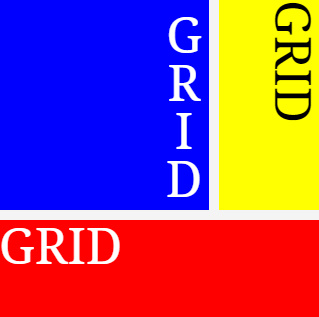
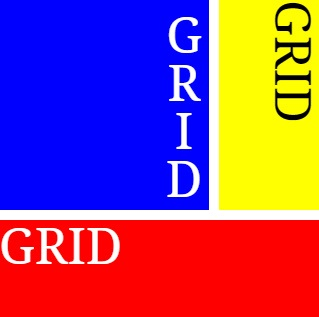
html in layout page

Changed region(s): [[0.0, 0.0, 1.0, 0.8517], [0.8464, 0.0, 0.9875, 0.3975], [0.5078, 0.0284, 0.6207, 0.1703]]

diff --git a/layout.html b/layout.html
@@ -13,18 +13,129 @@
         <h1>Layout Page</h1>
       </header>
       <main class="layout">
-        <div class="blue">
-          <span>GRID</span>
-        </div>
-        <div class="yellow">
-          <span>GRID</span>
-        </div>
-        <div class="red">
-          <span>GRID</span>
-        </div>
+        <section class="layout-header">
+          <nav class="layout-header__nav">
+            <i class="fas fa-bars"></i>
+            <span class="layout-header__nav__logo">LOGO</span>
+            <div class="layout-header__nav__category">
+              <span>category</span>
+              <span>category</span>
+              <span>category</span>
+              <span>category</span>
+              <span>category</span>
+            </div>
+            <i class="fas fa-search"></i>
+          </nav>
+          <div class="layout-header__banner">
+            <i class="fas fa-chevron-left"></i>
+            <span class="layout-header__banner__contents">Banner</span>
+            <i class="fas fa-chevron-right"></i>
+          </div>
+          <div class="layout-header__text">
+            <div class="layout-header__text__title">Title Text</div>
+            <div class="layout-header__text__subtitle">Subtitle Text</div>
+            <div class="layout-header__text__contents">contents</div>
+          </div>
+        </section>
+        <section class="layout__first">
+          <div class="layout__first__title"></div>
+          <div class="layout__first__box">
+            <div class="layout__first__box__title">Title Text</div>
+            <div class="layout__first__box__contents">contents</div>
+          </div>
+          <button type="button" class="layout__first__btn">더보기</button>
+        </section>
+        <section class="layout__second">
+          <div class="layout__second-header">
+            <div class="layout__second-header__title"></div>
+            <div class="layout__second-header__subtitle"></div>
+            <div class="layout__second-header__contents"></div>
+          </div>
+          <div class="layout__second__video"></div>
+          <div class="layout__second__videos"></div>
+          <button type="button" class="layout__second__btn">더보기</button>
+        </section>
+        <section class="layout__third">
+          <div class="layout__third-header"><span>Title Text</span></div>
+          <div class="layout__third__boxes">
+            <div class="layout__third__box">
+              <div class="layout__third__box__title">01</div>
+              <div class="layout__third__box__contents">contents</div>
+            </div>
+            <div class="layout__third__box">
+              <div class="layout__third__box__title">02</div>
+              <div class="layout__third__box__contents">contents</div>
+            </div>
+            <div class="layout__third__box">
+              <div class="layout__third__box__title">03</div>
+              <div class="layout__third__box__contents">contents</div>
+            </div>
+            <div class="layout__third__box">
+              <div class="layout__third__box__title">04</div>
+              <div class="layout__third__box__contents">contents</div>
+            </div>
+            <div class="layout__third__box">
+              <div class="layout__third__box__title">05</div>
+              <div class="layout__third__box__contents">contents</div>
+            </div>
+            <div class="layout__third__box">
+              <div class="layout__third__box__title">06</div>
+              <div class="layout__third__box__contents">contents</div>
+            </div>
+          </div>
+          <button type="button" class="layout__third__btn">더보기</button>
+        </section>
+        <section class="layout__fourth">
+          <div class="layout__fourth-header">
+            <div class="layout__fourth-header__title">Title Text</div>
+            <div class="layout__fourth-header__contents">contents</div>
+          </div>
+          <div class="layout__fourth__boxes">
+            <div class="layout__fourth__box"></div>
+            <div class="layout__fourth__box"></div>
+            <div class="layout__fourth__box"></div>
+          </div>
+        </section>
+        <section class="layout__fifth">
+          <div class="layout__fifth-header">
+            <div class="layout__fifth-header__title">Title text</div>
+            <ul class="layout__fifth-header__nav">
+              <li></li>
+              <li></li>
+              <li></li>
+              <li></li>
+              <li></li>
+              <li></li>
+            </ul>
+          </div>
+          <div class="layout__fifth__subtitle">Subtitle</div>
+          <div class="layout__fifth__contents"></div>
+          <div class="layout__fifth__boxes">
+            <div class="layout__fifth__box">
+              <div class="layout__fifth__box__title">Title</div>
+              <div class="layout__fifth__contents">contents</div>
+            </div>
+            <div class="layout__fifth__box">
+              <div class="layout__fifth__box__title">Title</div>
+              <div class="layout__fifth__contents">contents</div>
+            </div>
+            <div class="layout__fifth__box">
+              <div class="layout__fifth__box__title">Title</div>
+              <div class="layout__fifth__contents">contents</div>
+            </div>
+            <div class="layout__fifth__box">
+              <div class="layout__fifth__box__title">Title</div>
+              <div class="layout__fifth__contents">contents</div>
+            </div>
+          </div>
+        </section>
       </main>
     </div>
     <footer></footer>
+    <script
+      src="https://kit.fontawesome.com/3b3cd648ee.js"
+      crossorigin="anonymous"
+    ></script>
     <script src="js/layout.js"></script>
   </body>
 </html>

diff --git a/css/grid.css b/css/grid.css
@@ -1,7 +1,45 @@
 .wrapper-grid {
   margin-bottom: 50px;
 }
+.thumbnail-grid {
+  width: 100%;
+  height: 100%;
+  margin: 50px 0px;
+  display: grid;
+  justify-content: center;
+  grid-template-columns: repeat(3, 100px);
+  grid-template-rows: repeat(3, 100px);
+  gap: 10px;
+}
+.thumbnail-grid div {
+  display: flex;
+  font-size: 50px;
+}
+.thumbnail-grid--blue {
+  color: white;
+  background-color: blue;
+  justify-content: flex-start;
+  grid-row: span 2;
+  grid-column: span 2;
+  writing-mode: vertical-rl;
+  text-orientation: upright;
+  letter-spacing: -20px;
+}
+.thumbnail-grid--yellow {
+  background-color: yellow;
+  grid-row: span 2;
+  writing-mode: vertical-rl;
+}
+.thumbnail-grid--red {
+  color: white;
+  background-color: red;
+  grid-column: span 3;
+  text-shadow: black;
+}
 .grid__box {
+  padding: 0px 20px 20px 20px;
+  border-radius: 20px;
+  background-color: white;
   display: flex;
   flex-direction: column;
   align-items: center;
@@ -21,13 +59,13 @@
   width: 1400px;
   height: 2048px;
   padding: 0px 20px;
-  background-color: #a4aafc;
+  background-color: #e7879c;
   display: grid;
   grid-template-columns: repeat(12, 1fr);
   gap: 40px;
 }
 .grid__box__column {
-  background-color: #e1abcf;
+  background-color: #eea4b5;
 }
 .grid__box__area {
   width: 1400px;
@@ -65,5 +103,5 @@
 }
 .black {
   background-color: black;
-  opacity: 0.2;
+  opacity: 0.5;
 }

diff --git a/css/layout.css b/css/layout.css
@@ -7,36 +7,5 @@
   align-items: center;
 }
 .layout {
-  width: 100%;
-  height: 100%;
-  display: grid;
-  justify-content: center;
-  grid-template-columns: repeat(3, 100px);
-  grid-template-rows: repeat(3, 100px);
-  gap: 10px;
-}
-.layout div {
-  display: flex;
-  font-size: 50px;
-}
-.blue {
-  color: white;
-  background-color: blue;
-  justify-content: flex-start;
-  grid-row: span 2;
-  grid-column: span 2;
-  writing-mode: vertical-rl;
-  text-orientation: upright;
-  letter-spacing: -20px;
-}
-.yellow {
-  background-color: yellow;
-  grid-row: span 2;
-  writing-mode: vertical-rl;
-}
-.red {
-  color: white;
-  background-color: red;
-  grid-column: span 3;
-  text-shadow: black;
+  width: 1080px;
 }

diff --git a/grid.html b/grid.html
@@ -12,6 +12,17 @@
       <header>
         <h1>Grid Page</h1>
       </header>
+      <article class="thumbnail-grid">
+        <div class="thumbnail-grid--blue">
+          <span>GRID</span>
+        </div>
+        <div class="thumbnail-grid--yellow">
+          <span>GRID</span>
+        </div>
+        <div class="thumbnail-grid--red">
+          <span>GRID</span>
+        </div>
+      </article>
       <main class="grid">
         <section class="grid__box">
           <div class="grid__box-header">
@@ -67,6 +78,5 @@
       </main>
     </div>
     <footer></footer>
-    <script src="js/grid.js"></script>
   </body>
 </html>

diff --git a/index.html b/index.html
@@ -13,7 +13,12 @@
         <h1>Main Page</h1>
       </header>
       <form class="search">
-        <input type="text" id="search" placeholder="Search by category." />
+        <input
+          type="text"
+          name="search"
+          id="search"
+          placeholder="Search by category."
+        />
       </form>
       <main class="page">
         <section class="page__box">

diff --git a/README.md b/README.md
@@ -1,12 +1,23 @@
 # Front-end practice
 
-content
+---
+
+## Description
+
+Practice for the purpose of improving the skills of the 'Front End'.
+The configuration is divided into a 'main page' and individual pages.
 
 - main page
 - grid page
+- layout page
+- mobile page
 
-plan
+---
+
+## plan
 
 - next category layout
+- next category SPA
 - Hover status animations for categories with js
-- location, email, name in footer ex) google
+- email, name in footer ex) google
+- react after, grid height from js
